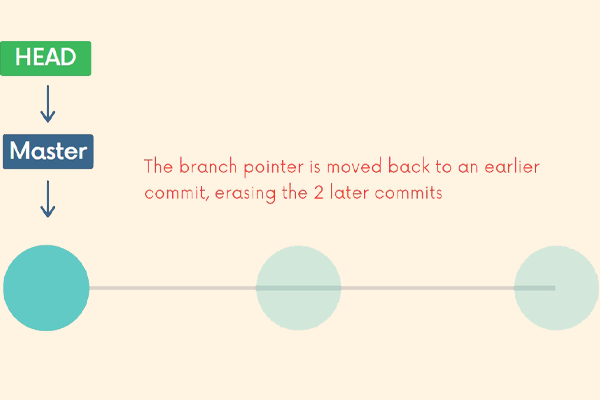
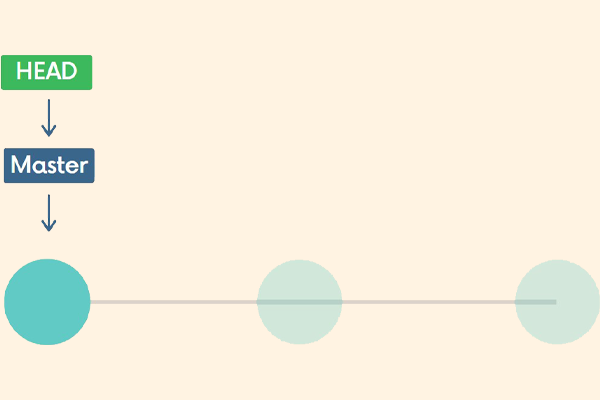
Update section "6. Undoing Changes" to Git & Github.md

diff --git a/Git/Git and GitHub.md b/Git/Git and GitHub.md
@@ -494,4 +494,20 @@ git revert <commit-hash>
 
 ![image12](assets/image12.png)
 
+```bash
+git reset HEAD~2
+```
+
 ![image13](assets/image13.png)
+
+The branch pointer is moved back to an earlier commit, erasing the 2 later commits.
+
+![image12](assets/image12.png)
+
+```bash
+git revert 51494a6
+```
+
+![image14](assets/image14.png)
+
+This new commit reverses the changes from 51494a6.
